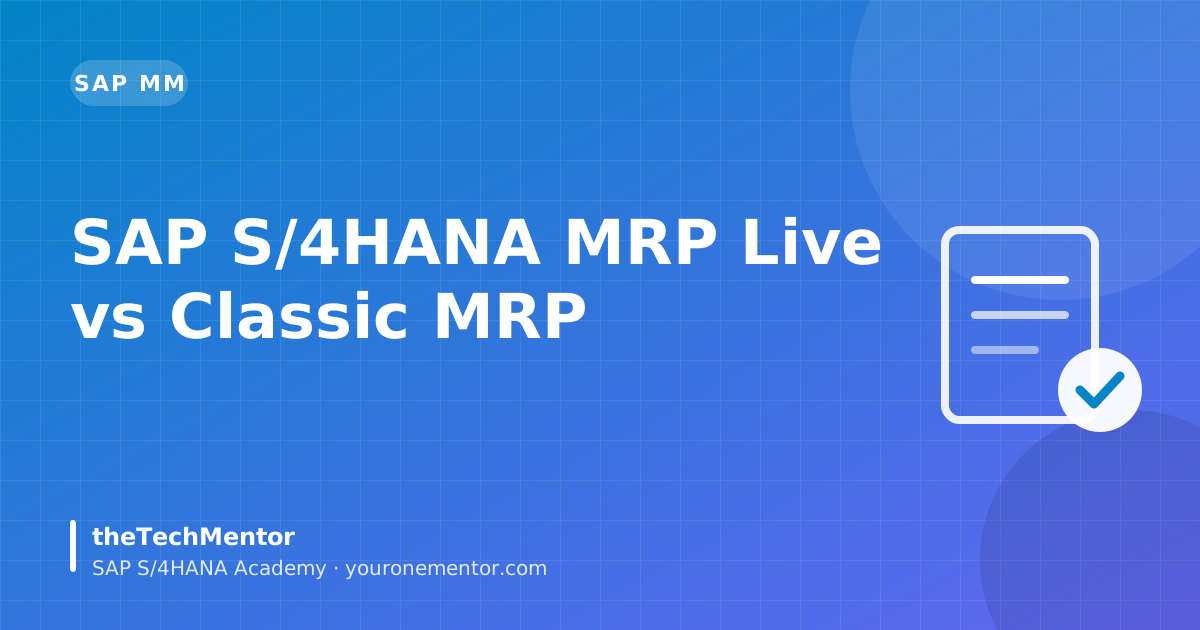
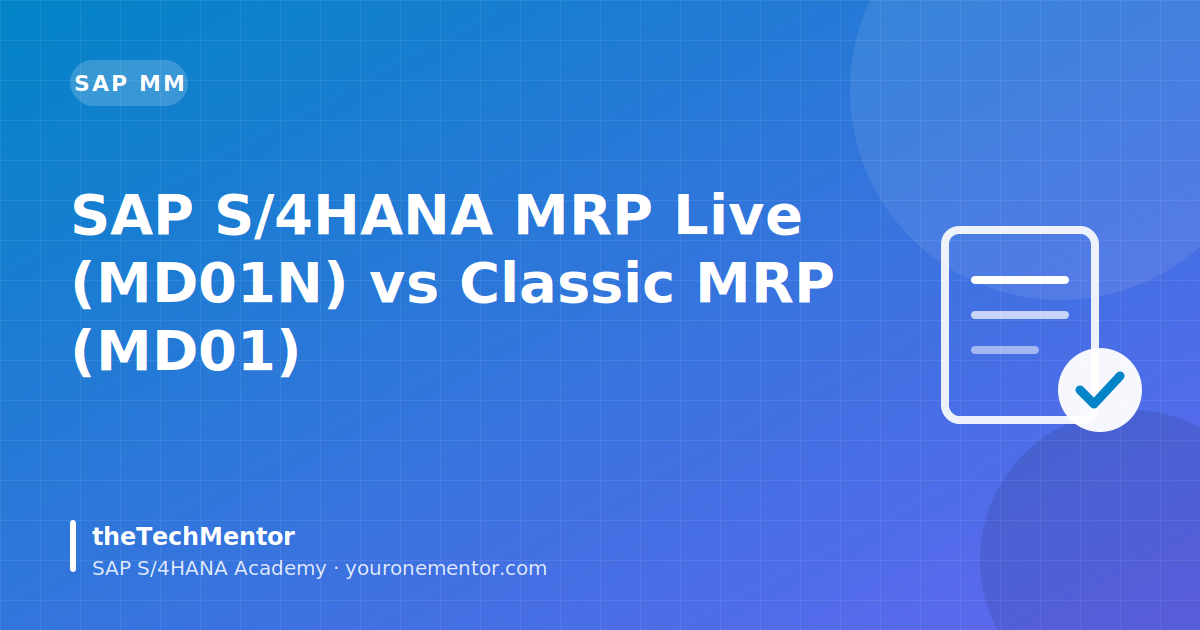
feat(blog): automated article

diff --git a/legacy/blog/sap-s4hana-mrp-live-classic-mrp-comparison.html b/legacy/blog/sap-s4hana-mrp-live-classic-mrp-comparison.html
@@ -3,95 +3,98 @@
 <head>
   <meta charset="UTF-8" />
   <meta name="viewport" content="width=device-width, initial-scale=1.0" />
-  <title>SAP S/4HANA MRP Live vs Classic MRP</title>
-  <meta name="description" content="Detailed architectural comparison between MRP Live (MD01N) and Classic MRP (MD01) in S/4HANA Sourcing & Procurement." />
+  <title>SAP S/4HANA MRP Live (MD01N) vs Classic MRP (MD01)</title>
+  <meta name="description" content="SAP S/4HANA MRP Live vs classic MRP explained: MD01N vs MD01, how each runs, what changes for you, and how to move plants over. Read the full guide." />
   <link rel="canonical" href="https://youronementor.com/blog/sap-s4hana-mrp-live-classic-mrp-comparison.html" />
-  <meta property="og:title" content="SAP S/4HANA MRP Live vs Classic MRP: Performance & Functional Matrix" />
-  <meta property="og:description" content="Detailed architectural comparison between MRP Live (MD01N) and Classic MRP (MD01) in S/4HANA Sourcing & Procurement." />
+  <meta name="robots" content="index,follow,max-image-preview:large" />
+  <meta property="og:type" content="article" />
+  <meta property="og:url" content="https://youronementor.com/blog/sap-s4hana-mrp-live-classic-mrp-comparison.html" />
+  <meta property="og:title" content="SAP S/4HANA MRP Live (MD01N) vs Classic MRP (MD01): Architecture, Differences and Migration" />
+  <meta property="og:description" content="SAP S/4HANA MRP Live vs classic MRP explained: MD01N vs MD01, how each runs, what changes for you, and how to move plants over. Read the full guide." />
   <meta property="og:image" content="https://youronementor.com/blog/covers/sap-s4hana-mrp-live-classic-mrp-comparison.png" />
+  <meta property="og:site_name" content="theTechMentor" />
+  <meta name="twitter:card" content="summary_large_image" />
+  <meta property="article:published_time" content="2026-11-19" />
+  <meta property="article:modified_time" content="2026-11-19" />
   <link rel="preconnect" href="https://fonts.googleapis.com" />
   <link rel="preconnect" href="https://fonts.gstatic.com" crossorigin />
-  <link rel="stylesheet" href="https://fonts.googleapis.com/css2?family=Inter:wght@400;500;600;700;800&family=Space+Grotesk:wght@500;600;700&display=swap" />
-  <link rel="stylesheet" href="../styles.css" />
-  <link rel="stylesheet" href="blog.css" />
-  <script src="https://checkout.razorpay.com/v1/checkout.js"></script>
-  <script type="application/ld+json">[{"@context": "https://schema.org", "@type": "Article", "headline": "SAP S/4HANA MRP Live vs Classic MRP: Performance & Functional Matrix", "description": "Detailed architectural comparison between MRP Live (MD01N) and Classic MRP (MD01) in S/4HANA Sourcing & Procurement.", "image": "https://youronementor.com/images/og-cover.png", "author": {"@type": "Person", "name": "Anshuman Behuria", "url": "https://www.linkedin.com/in/anshuman-behuria-946860130"}, "publisher": {"@type": "Organization", "name": "theTechMentor", "url": "https://youronementor.com"}, "mainEntityOfPage": "https://youronementor.com/blog/sap-s4hana-mrp-live-classic-mrp-comparison.html"}, {"@context": "https://schema.org", "@type": "BreadcrumbList", "itemListElement": [{"@type": "ListItem", "position": 1, "name": "Home", "item": "https://youronementor.com/"}, {"@type": "ListItem", "position": 2, "name": "Blog", "item": "https://youronementor.com/blog/"}, {"@type": "ListItem", "position": 3, "name": "SAP S/4HANA MRP Live vs Classic MRP: Performance & Functional Matrix", "item": "https://youronementor.com/blog/sap-s4hana-mrp-live-classic-mrp-comparison.html"}]}]</script>
-  <meta name="robots" content="noindex,follow" />
-  <link rel="stylesheet" href="ai-article.css" />
-  <link rel="stylesheet" href="../theme-2030.css?v=1" />
+  <link rel="stylesheet" href="https://fonts.googleapis.com/css2?family=Inter:wght@400;500;600;700&family=Plus+Jakarta+Sans:wght@600;700;800&display=swap" />
+  <link rel="icon" href="../images/logo-mark.svg" type="image/svg+xml" />
+  <link rel="stylesheet" href="../site.css?v=7" />
+  <link rel="stylesheet" href="ai-article.css?v=3" />
+  <script type="application/ld+json">[{"@context": "https://schema.org", "@type": "Article", "headline": "SAP S/4HANA MRP Live (MD01N) vs Classic MRP (MD01): Architecture, Differences and Migration", "description": "SAP S/4HANA MRP Live vs classic MRP explained: MD01N vs MD01, how each runs, what changes for you, and how to move plants over. Read the full guide.", "image": "https://youronementor.com/blog/covers/sap-s4hana-mrp-live-classic-mrp-comparison.png", "datePublished": "2026-11-19", "dateModified": "2026-11-19", "author": {"@type": "Person", "name": "Anshuman Behuria", "url": "https://www.linkedin.com/in/anshuman-behuria-946860130"}, "publisher": {"@type": "Organization", "name": "theTechMentor", "url": "https://youronementor.com"}, "mainEntityOfPage": "https://youronementor.com/blog/sap-s4hana-mrp-live-classic-mrp-comparison.html", "wordCount": 2020}, {"@context": "https://schema.org", "@type": "BreadcrumbList", "itemListElement": [{"@type": "ListItem", "position": 1, "name": "Home", "item": "https://youronementor.com/"}, {"@type": "ListItem", "position": 2, "name": "Blog", "item": "https://youronementor.com/blog/"}, {"@type": "ListItem", "position": 3, "name": "SAP S/4HANA MRP Live (MD01N) vs Classic MRP (MD01): Architecture, Differences and Migration", "item": "https://youronementor.com/blog/sap-s4hana-mrp-live-classic-mrp-comparison.html"}]}, {"@context": "https://schema.org", "@type": "FAQPage", "mainEntity": [{"@type": "Question", "name": "What is MRP Live in SAP S/4HANA?", "acceptedAnswer": {"@type": "Answer", "text": "MRP Live is the S/4HANA version of total MRP, run with transaction MD01N. It performs the planning calculation in the SAP HANA database rather than in the ABAP application server, which reduces data transfer and improves run time on large data volumes."}}, {"@type": "Question", "name": "Is MRP Live always faster than classic MRP?", "acceptedAnswer": {"@type": "Answer", "text": "It is usually faster for large plants with many materials and open requirements, but the gain varies. Small plants, heavy custom code or limited HANA resources can reduce the benefit, so measure on a copy of real data."}}, {"@type": "Question", "name": "Do planning results change when I move from MD01 to MD01N?", "acceptedAnswer": {"@type": "Answer", "text": "They should not, because the business logic is the same. Differences usually come from custom enhancements, data issues or release-specific restrictions, which is why you compare a classic baseline with an MRP Live run before cutover."}}, {"@type": "Question", "name": "Can I run MRP Live on ECC?", "acceptedAnswer": {"@type": "Answer", "text": "No. MRP Live is an S/4HANA capability. ECC, even when running on a HANA database, uses classic MRP via MD01."}}, {"@type": "Question", "name": "Which transactions do planners use to review MRP Live results?", "acceptedAnswer": {"@type": "Answer", "text": "The usual ones: MD04 for the stock/requirements list of one material, MD05 for the MRP list, MD06 for the collective MRP list and MD07 for the collective stock/requirements list. Fiori apps for material coverage are also available."}}, {"@type": "Question", "name": "Do I need to change master data to use MRP Live?", "acceptedAnswer": {"@type": "Answer", "text": "There is no new master-data model, but you should clean existing data such as MRP controller, MRP type, lot size and planned delivery time. Doing so before the move makes the result comparison much easier."}}, {"@type": "Question", "name": "How should I cut over production plants to MD01N?", "acceptedAnswer": {"@type": "Answer", "text": "Go one plant at a time. Baseline with classic regenerative planning in test, run MD01N on the same data, compare results and timing, then update the background job and monitor several cycles before moving the next plant."}}]}]</script>
   <script src="../site-config.js"></script>
   <script src="../tracking.js"></script>
-  <link rel="icon" href="../images/logo-mark.svg" type="image/svg+xml" />
 </head>
-<body>
+<body class="ai-page" style="--accent:#0284c7;--accent2:#6366f1;--accent-soft:#e0f2fe;">
   <div class="reading-progress" id="reading-progress-bar"></div>
-
   <header class="header">
-    <nav class="nav container">
-      <a href="../index.html" class="logo">
-        <img class="logo-img" src="../images/logo-mark.svg" width="32" height="32" alt="" />
-        <span class="logo-text">the<b>Tech</b>Mentor</span>
-      </a>
+    <nav class="nav wrap" aria-label="Main">
+      <a href="../index.html" class="brand" aria-label="theTechMentor home"><img src="../images/logo-mark.svg" alt="" width="36" height="36" /><span>the<b>Tech</b>Mentor</span></a>
+      <button class="nav-toggle" aria-label="Open menu" aria-expanded="false"><span></span><span></span><span></span></button>
       <ul class="nav-links">
         <li><a href="../index.html#courses">Courses</a></li>
+        <li><a href="../digital-products">Digital Products</a></li>
         <li><a href="../index.html#paths">Career paths</a></li>
-        <li><a href="index.html" style="color:var(--blog-accent-light); font-weight:600;">Blog Hub</a></li>
-        <li><a href="../index.html#advisor">Free counselling</a></li>
-        <li><a href="../index.html#courses" class="btn btn-sm">Explore courses</a></li>
+        <li><a href="index.html">Blog</a></li>
+        <li><a href="../index.html#advisor" class="btn btn-ghost btn-sm">Free counselling</a></li>
+        <li><a href="../index.html#courses" class="btn btn-primary btn-sm">Explore courses</a></li>
       </ul>
     </nav>
   </header>
 
-  <main class="blog-article-wrap">
-    <div class="blog-breadcrumb">
-      <a href="../index.html">Home</a> &gt; <a href="index.html">Blog</a> &gt; <span>Guide</span>
-    </div>
+  <main class="blog-article-wrap ai-wrap">
+    <nav class="blog-breadcrumb" aria-label="Breadcrumb">
+      <a href="../index.html">Home</a> &gt; <a href="index.html">Blog</a> &gt; <span>Tutorial</span>
+    </nav>
 
-    <header class="blog-header">
-      <span class="sp-badge sp-badge--teal" style="margin-bottom:1rem; display:inline-block;">S/4HANA 2026</span>
-      <h1 class="blog-title">SAP S/4HANA MRP Live vs Classic MRP: Performance & Functional Matrix</h1>
-      
+    <header class="ai-hero">
+      <span class="ai-pill">SAP S/4HANA MRP TUTORIAL</span>
+      <h1 class="blog-title">SAP S/4HANA MRP Live (MD01N) vs Classic MRP (MD01): Architecture, Differences and Migration</h1>
+      <p class="ai-dek">How SAP S/4HANA MRP Live (MD01N) differs from classic MRP (MD01): where the logic runs, what you configure, what to test, and how to cut plants over safely.</p>
       <div class="blog-meta">
         <div class="author-chip">
-          <img class="author-photo" src="../images/anshuman-behuria-96.jpg" alt="Anshuman Behuria" width="40" height="40" style="width:40px;height:40px;border-radius:50%;object-fit:cover" />
-          <div class="author-info">
-            <strong>Anshuman Behuria</strong>
-            <span>Lead SAP S/4HANA Trainer</span>
-          </div>
+          <img class="author-photo" src="../images/anshuman-behuria-96.jpg" alt="Anshuman Behuria" width="40" height="40" />
+          <div class="author-info"><strong>Anshuman Behuria</strong><span>Lead SAP Mentor · theTechMentor</span></div>
         </div>
-        <span>•</span>
-        <span>Sep 06, 2026</span>
-        <span>•</span>
-        <span>⏱ 11 min read</span>
+        <span>Updated <time datetime="2026-11-19">Nov 19, 2026</time></span>
       </div>
+      <img class="ai-cover" src="covers/sap-s4hana-mrp-live-classic-mrp-comparison.svg" width="1200" height="630" alt="SAP S/4HANA MRP Live (MD01N) vs Classic MRP (MD01): Architecture, Differences and Migration" />
     </header>
 
-    <article class="article-content">
+    <article class="article-content ai-article">
+      <div class="glance"><div><span>Module</span><strong>SAP MM</strong></div><div><span>Read time</span><strong>9 min</strong></div><div><span>Level</span><strong>Consultant</strong></div><div class="glance-codes"><span>T-codes covered</span><p><code>MD01N</code><code>MD01</code><code>MD04</code><code>MD05</code><code>MD06</code><code>MD07</code><code>MD02</code><code>MD03</code></p></div></div>
 
-      <!-- TARGET METADATA GRID -->
-      <div style="background: #080d14; border: 1px solid #1e293b; border-radius: 10px; padding: 1.5rem; margin-bottom: 2rem; display: grid; grid-template-columns: 1fr 1fr; gap: 1.25rem;">
-        <div style="border-left: 3px solid #0284c7; padding-left: 0.85rem;">
-          <span style="color: #94a3b8; font-size: 0.8rem; font-weight: 700; text-transform: uppercase; display: block;">Target Role:</span>
-          <strong style="color: #fff; font-size: 0.95rem;">SAP MM/PP Lead Consultant & Logistics Architect</strong>
-        </div>
-      </div>
+      <div class="ai-intro"><p>Most S/4HANA conversion projects hit the same MRP question in the first workshop: "Our nightly MRP run takes six hours in ECC. Will it be faster, and will our planners see the same results?" The honest answer needs you to know what actually differs between <strong>SAP S/4HANA MRP Live</strong> and classic MRP, and what does not.</p><p>This guide explains how MRP Live (<code>MD01N</code>) executes compared with classic MRP (<code>MD01</code>), which inputs and outputs stay the same, where the behaviour or the screens change, and how to test and cut over plant by plant. It is written for MM/PP consultants who must explain this to a client, and for freshers who will be asked about it in interviews.</p></div>
 
-      <p style="font-size: 1.05rem; line-height: 1.75; color: #cbd5e1; margin-bottom: 2rem;">
-        Mastering S/4HANA supply chain architecture requires deep functional knowledge and practical configuration experience. This technical guide breaks down <strong>SAP S/4HANA MRP Live vs Classic MRP: Performance & Functional Matrix</strong> with actionable step-by-step blueprints.
-      </p>
+      <div class="ai-box ai-takeaways"><div class="box-label">⚡ Key takeaways</div><ul><li>MRP Live (MD01N) keeps the same planning logic as classic MRP (MD01) but runs the calculation inside the SAP HANA database instead of the ABAP application server.</li><li>The speed benefit depends on data volume, BOM depth, custom code and hardware, so measure it on production-like data rather than promising a factor.</li><li>Custom enhancements on MRP and release-specific functional coverage are the main risks; check the simplification list for your exact release.</li><li>Migrate plant by plant: baseline with classic regenerative planning, re-run in MD01N, compare results using a golden set of materials, then cut over the job.</li><li>Analysis stays familiar: MD04, MD05, MD06 and MD07 still show MRP results for planners.</li></ul></div>
 
-      <h2 style="color: #fff; font-size: 1.5rem; font-weight: 700; margin: 2rem 0 1rem 0; padding-bottom: 0.5rem; border-bottom: 1px solid #1e293b;">1. How MRP Live Executes Directly on HANA Database Layer</h2><p style="color: #cbd5e1; font-size: 1.05rem; line-height: 1.7;">Deep dive into key configuration parameters, best practices, and real-world project insights for HANA In-Memory Engine.</p><h2 style="color: #fff; font-size: 1.5rem; font-weight: 700; margin: 2rem 0 1rem 0; padding-bottom: 0.5rem; border-bottom: 1px solid #1e293b;">2. Supported vs Unsupported Materials in MRP Live (BADI PPH_MRP_DISER)</h2><p style="color: #cbd5e1; font-size: 1.05rem; line-height: 1.7;">Deep dive into key configuration parameters, best practices, and real-world project insights for Functional Scope Changes.</p><h2 style="color: #fff; font-size: 1.5rem; font-weight: 700; margin: 2rem 0 1rem 0; padding-bottom: 0.5rem; border-bottom: 1px solid #1e293b;">3. Analyzing MRP Live Compatibility via Report PPH_CHECK_MRP_ON_HANA</h2><p style="color: #cbd5e1; font-size: 1.05rem; line-height: 1.7;">Deep dive into key configuration parameters, best practices, and real-world project insights for PPH_MRP_DISER Check.</p><h2 style="color: #fff; font-size: 1.5rem; font-weight: 700; margin: 2rem 0 1rem 0; padding-bottom: 0.5rem; border-bottom: 1px solid #1e293b;">4. Best Practices for Transitioning Plant Operations to MD01N</h2><p style="color: #cbd5e1; font-size: 1.05rem; line-height: 1.7;">Deep dive into key configuration parameters, best practices, and real-world project insights for Migration Strategy.</p>
+      <div class="flow"><div class="flow-label">Process at a glance</div><ol class="flow-steps"><li><span class="flow-n">1</span><strong>Assess and inventory</strong><span>Review simplification items and list custom code on MRP objects.</span></li><li><span class="flow-n">2</span><strong>Baseline with MD01</strong><span>Run classic regenerative planning in test and save the results.</span></li><li><span class="flow-n">3</span><strong>Re-run with MD01N</strong><span>Run MRP Live on the same data and parameters.</span></li><li><span class="flow-n">4</span><strong>Compare and fix</strong><span>Check quantities, dates and exceptions, then fix differences.</span></li><li><span class="flow-n">5</span><strong>Cut over plant by plant</strong><span>Switch the background job variant and monitor several cycles.</span></li></ol></div>
 
-      <!-- TIP CALLOUT -->
-      <div style="background: #0c1929; border-left: 4px solid #0284c7; padding: 1.25rem; border-radius: 6px; margin: 1.75rem 0;">
-        <strong style="color: #38bdf8; font-size: 1.05rem; display: block; margin-bottom: 0.3rem;">💡 CONSULTANT BEST PRACTICE</strong>
-        <p style="color: #cbd5e1; font-size: 0.95rem; margin: 0;">
-          Always validate your configuration in a sandbox environment before transporting customizing requests to Quality/Production.
-        </p>
-      </div>
+      <nav class="ai-box ai-toc" aria-label="Contents"><div class="box-label">📑 In this guide</div><ol><li><a href="#sec-1"><span>01</span>What MRP Live actually changes (and what it does not)</a></li><li><a href="#sec-2"><span>02</span>How MRP Live executes on the HANA database</a></li><li><a href="#sec-3"><span>03</span>MD01N vs MD01: screen and parameter comparison</a></li><li><a href="#sec-4"><span>04</span>Functional restrictions and custom code to review</a></li><li><a href="#sec-5"><span>05</span>Migration approach: moving plants to MRP Live</a></li><li><a href="#sec-6"><span>06</span>Scheduling, monitoring and what planners see afterwards</a></li><li><a href="#sec-7"><span>07</span>Troubleshooting and common mistakes</a></li><li><a href="#sec-8"><span>08</span>Interview questions on this topic</a></li><li><a href="#faqs"><span>?</span>Frequently asked questions</a></li></ol></nav>
 
-      <!-- LEAD OPT-IN -->
+      <h2 id="sec-1"><span class="h2-n">01</span>What MRP Live actually changes (and what it does not)</h2>
+<p>MRP's job is unchanged: look at stock, receipts and requirements, calculate shortages, and create planned orders, purchase requisitions or schedule lines. The planning logic you know (MRP types, lot-sizing, safety stock, planned delivery time, BOM explosion, procurement proposals) is the same business logic.</p><p>What changes is <strong>where the calculation runs</strong>. In classic MRP, the ABAP application server reads planning data from the database material by material, calculates in application-server memory, and writes the results back. In MRP Live, the calculation is pushed down into the SAP HANA database using ABAP-managed database procedures, so far less data travels between the database and the application server. This is the same code-pushdown idea described in <a href="abap-on-hana-code-pushdown-examples.html">ABAP on HANA code pushdown</a>.</p><table><thead><tr><th>Aspect</th><th>Classic MRP</th><th>MRP Live</th></tr></thead><tbody><tr><td>Total planning transaction</td><td><code>MD01</code></td><td><code>MD01N</code></td></tr><tr><td>Where the calculation runs</td><td>ABAP application server</td><td>SAP HANA database (database procedures)</td></tr><tr><td>Database platform</td><td>Any supported database (ECC)</td><td>HANA only</td></tr><tr><td>Planning file</td><td>Planning file entries in <code>DBVM</code></td><td>Same concept; net change logic is retained</td></tr><tr><td>Results</td><td>Planned orders (<code>PLAF</code>), purchase requisitions (<code>EBAN</code>), schedule lines, MRP lists</td><td>Same documents</td></tr><tr><td>Analysis</td><td><code>MD04</code>, <code>MD05</code>, <code>MD06</code>, <code>MD07</code></td><td>Same transactions</td></tr></tbody></table><aside class="note"><strong>ECC vs S/4HANA:</strong> MRP Live is only available on S/4HANA (it was introduced with the first S/4HANA releases and later made the default recommendation). In ECC you only have classic MRP, even if your ECC database is HANA (Suite on HANA).</aside><p>Because master data, document types and downstream steps are unchanged, a planner still sees the same stock/requirements list. The main differences you will notice are runtime, parallelisation behaviour and a few functional or enhancement-related restrictions, covered below.</p>
+<h2 id="sec-2"><span class="h2-n">02</span>How MRP Live executes on the HANA database</h2>
+<p>Think of classic MRP as a long conveyor belt: for each material, fetch rows, bring them to the application server, calculate, write back. With millions of requirement and receipt rows, the cost is mostly data transfer and row-by-row processing.</p><p>MRP Live reverses this. The planning run selects the materials in scope, and the heavy parts (reading stock and requirements, netting, lot-sizing, low-level BOM handling) execute inside HANA, close to the data, using set-based processing and parallelism that the database manages. Only the final results are returned to be stored as planned orders or requisitions.</p><h3>Practical consequences</h3><ul><li><strong>Run time:</strong> the gain is largest for big plants with many materials, deep multi-level BOMs and many open requirements. Small plants with few materials may see little change.</li><li><strong>Memory:</strong> work moves from the application server to HANA, so watch HANA memory and CPU during the run, not only application work processes. See <a href="sap-s4hana-system-architecture-basis-beginners.html">S/4HANA system architecture for BASIS beginners</a> for the layers involved.</li><li><strong>Planning frequency:</strong> faster runs let some businesses plan more often than once a night, which is the real business value, not just a shorter job log.</li></ul><aside class="tip"><strong>Tip:</strong> Never promise the client a specific speed-up factor. Measure it on a copy of their production data. Gains depend on data volume, BOM depth, custom code and hardware.</aside>
+<h2 id="sec-3"><span class="h2-n">03</span>MD01N vs MD01: screen and parameter comparison</h2>
+<p>Both transactions let you plan a plant (total planning), but the selection screen and options differ. Open both in your sandbox side by side and compare.</p><table><thead><tr><th>Item</th><th><code>MD01</code> (classic)</th><th><code>MD01N</code> (MRP Live)</th></tr></thead><tbody><tr><td>Plant / planning scope</td><td>Plant, optional planning scope</td><td>Plant or MRP area, optional planning scope</td></tr><tr><td>Processing key</td><td><code>NETCH</code> net change, <code>NETPL</code> net change in planning horizon, <code>NEUPL</code> regenerative planning</td><td>Same three planning types</td></tr><tr><td>Create purchase requisitions</td><td>Option 1/2/3 (opening period logic)</td><td>Same options</td></tr><tr><td>MRP list creation</td><td>Option to create MRP lists</td><td>Option available</td></tr><tr><td>Planning mode / scheduling</td><td>Adapt, re-explode, delete and recreate</td><td>Same planning modes</td></tr><tr><td>Parallel processing</td><td>Application-server parallel processing using RFC server groups</td><td>Parallelisation by the database; no application-server RFC group tuning</td></tr><tr><td>Online result display</td><td>More online display options</td><td>Fewer; analyse results in <code>MD04</code> / <code>MD07</code> afterwards</td></tr></tbody></table><p>Single-item planning (<code>MD02</code> multi-level, <code>MD03</code> single-level) and the planning-file maintenance transactions remain part of the toolset, and planners keep using <code>MD04</code>, <code>MD05</code> and <code>MD06</code> for analysis. Always check the exact options in your own release, because SAP has widened MRP Live coverage release by release.</p><aside class="interview"><strong>Interview angle:</strong> "What is the difference between MD01 and MD01N?" A good answer: same business logic and results, but MD01N executes the calculation in HANA instead of the application server, so it is faster on large volumes and uses database parallelism rather than RFC-group parallel processing.</aside>
+<h2 id="sec-4"><span class="h2-n">04</span>Functional restrictions and custom code to review</h2>
+<p>The main risk in an MRP Live move is not the standard planning logic. It is anything that depended on code running in the application server for each material.</p><h3>1. Custom enhancements</h3><p>Classic MRP lets custom code (BAdIs, user exits, modifications) intervene during the run. Logic that is executed in the database cannot call arbitrary ABAP per material, so enhancements that change planning results must be reviewed. Inventory every enhancement on MRP objects, and check SAP's documentation for your release to see which hooks are still supported and which are replaced by alternative extension points.</p><h3>2. Release-specific functional coverage</h3><p>In early S/4HANA releases MRP Live did not cover every classic feature. Coverage has improved since, but you must not assume it. Use these sources for your exact release:</p><ul><li>The <strong>Simplification Item Catalog</strong> and the Simplification List for your target release.</li><li>The release's <strong>What's New</strong> and application help for MRP.</li><li>The <strong>SAP Readiness Check</strong> for S/4HANA conversions, which flags relevant simplification items from your own system.</li></ul><p>Also read <a href="sap-s4hana-2025-release-mm-ewm-changes.html">what changed in the S/4HANA 2025 release for MM and EWM consultants</a> for recent changes.</p><h3>3. Master-data hygiene</h3><p>Dirty data hurts both modes, but the cleanup is easier before you switch. Check the MRP views of the material master (see <a href="material-master-views-s4hana-field-by-field-guide.html">material master views, field by field</a>): MRP type (<code>DISMM</code>), MRP controller (<code>DISPO</code>), lot size (<code>DISLS</code>), planned delivery time (<code>PLIFZ</code>), procurement type and special procurement key.</p><aside class="warning"><strong>Warning:</strong> Do not move a plant to <code>MD01N</code> in production because a demo ran well. Compare classic versus MRP Live results on the same data first. A different planned order for the same material is a finding to investigate, not noise.</aside>
+<h2 id="sec-5"><span class="h2-n">05</span>Migration approach: moving plants to MRP Live</h2>
+<p>A plant-by-plant approach lowers risk because MRP is planned per plant. Use the steps below as a project template.</p><ol><li><strong>Assess:</strong> run the readiness/simplification check for your release and list MRP-related items. Inventory custom code on MRP objects.</li><li><strong>Clean master data:</strong> fix materials with missing MRP controller, wrong lot size or MRP type, and obsolete planning file entries.</li><li><strong>Copy and baseline:</strong> in a test system with production-like data, run classic <code>MD01</code> with <code>NEUPL</code> (regenerative) for the plant and export results (planned orders, requisitions) as a baseline.</li><li><strong>Reset and re-run:</strong> restore the same data and run <code>MD01N</code> with the same parameters.</li><li><strong>Compare:</strong> check quantities, dates, order types and exception messages per material. Use <code>MD04</code> for samples and a custom report or extract for the full list.</li><li><strong>Time it:</strong> record run time and HANA resource usage, including the background job window.</li><li><strong>Cut over:</strong> change the background job variant (SM36/SM37) or the scheduling app from <code>MD01</code> to <code>MD01N</code> for the first plant, and monitor for a few cycles before the next plant.</li></ol><p>A worked example: Plant 1000 has 45,000 MRP-relevant materials. After the regenerative baseline run, classic MRP creates 3,210 planned orders and 1,480 purchase requisitions. The MRP Live run produces the same totals, but 14 materials differ by a few days in the planned start date. Investigation shows they use a custom scheduling enhancement. That is exactly the kind of finding the comparison is designed to surface, and you fix it before go-live.</p><aside class="tip"><strong>Tip:</strong> Keep a small "golden set" of 30 to 50 materials covering make-to-stock, purchased, phantom, subcontracting and long-lead items. The business can sign off on the golden set faster than on 45,000 results. Subcontracting planning is covered in <a href="sap-mm-subcontracting-process-s4hana-special-stock-o.html">the subcontracting process guide</a>.</aside>
+<h2 id="sec-6"><span class="h2-n">06</span>Scheduling, monitoring and what planners see afterwards</h2>
+<p>Operational use is where the change gets noticed day to day.</p><ul><li><strong>Background scheduling:</strong> total planning is normally a nightly background job (<code>SM36</code>). Check job logs in <code>SM37</code> and the MRP log after each run.</li><li><strong>Fiori apps:</strong> S/4HANA offers MRP apps such as Monitor Material Coverage and an app for scheduling MRP runs. App availability and names vary by release, so confirm them in the Fiori apps reference library for your version.</li><li><strong>Analysis transactions:</strong> <code>MD04</code> (stock/requirements list), <code>MD05</code> (MRP list), <code>MD06</code> (MRP list collective display) and <code>MD07</code> (stock/requirements list collective display) are unchanged for planners.</li><li><strong>Downstream:</strong> planned orders convert to production orders (<code>CO40</code>/<code>CO41</code>) and requisitions to POs, manually or by automation. See <a href="sap-mm-automatic-po-creation-me59n-pr-automation.html">automatic PO creation with ME59N</a> and the <a href="configure-purchase-order-cycle-s4hana.html">purchase order cycle guide</a>.</li></ul><aside class="note"><strong>Background:</strong> Net change planning relies on planning file entries that are created when stock or requirements change. Switching between <code>MD01</code> and <code>MD01N</code> does not require a new data model, but the first run after a cutover is often done as regenerative planning (<code>NEUPL</code>) so everyone starts from a clean, known state.</aside><p>Joule and other AI assistants are beginning to read MRP exception messages for planners. See the <a href="sap-joule-ai-s4hana-logistics-procurement-blueprint.html">Joule logistics and procurement blueprint</a> if the client asks about it, but the underlying MRP results still come from the same run.</p>
+<h2 id="sec-7"><span class="h2-n">07</span>Troubleshooting and common mistakes</h2>
+<table><thead><tr><th>Symptom</th><th>Likely cause</th><th>Fix</th></tr></thead><tbody><tr><td>Materials not planned at all</td><td>MRP type <code>ND</code>, missing MRP controller, or material not in the planning scope</td><td>Check <code>MM03</code> MRP 1 view and the planning scope; run <code>MD03</code> for one material to see the result</td></tr><tr><td>Result differs from classic MRP</td><td>Custom enhancement or scheduling logic not applied in the database run</td><td>Review enhancements; compare using the golden set</td></tr><tr><td>Run is slow despite MRP Live</td><td>Large result volume, locked materials, undersized HANA resources, or heavy custom code</td><td>Check job log, HANA load (DBACOCKPIT or HANA Cockpit), and run during a quiet period</td></tr><tr><td>Material skipped because it is locked</td><td>Another user or job is changing or planning the same material</td><td>Check <code>SM12</code> locks and overlapping jobs; reschedule so jobs do not overlap</td></tr><tr><td>No new proposals after net change run</td><td>No planning file entry because nothing relevant changed</td><td>Confirm the change, or run regenerative planning (<code>NEUPL</code>) for that scope</td></tr><tr><td>Too many purchase requisitions</td><td>Wrong requisition creation option or an unrealistic planned delivery time</td><td>Check parameters and <code>PLIFZ</code>; compare to your classic baseline</td></tr></tbody></table><aside class="warning"><strong>Common mistakes:</strong> (1) judging MRP Live only by run time, not result accuracy; (2) skipping the custom-code inventory; (3) running regenerative planning in production during working hours; (4) changing the job variant without telling planners, so they cannot explain different run times or timestamps.</aside>
+<h2 id="sec-8"><span class="h2-n">08</span>Interview questions on this topic</h2>
+<ol><li><strong>Why is MRP Live faster?</strong> The calculation runs inside HANA close to the data, so there is less data transfer and the database parallelises the work.</li><li><strong>Does MRP Live change the MRP logic?</strong> No. Planning types, lot sizes, MRP types and procurement proposals remain the same business logic. The execution layer changes.</li><li><strong>Can you use MD01 in S/4HANA?</strong> Check your release. The transaction may still exist, but <code>MD01N</code> is the recommended choice for total planning in S/4HANA.</li><li><strong>What would you check before moving a plant to MRP Live?</strong> Custom enhancements, release restrictions in the simplification list, master-data quality, a classic-vs-live result comparison and run-time measurement.</li><li><strong>Where do you analyse MRP results?</strong> <code>MD04</code> for one material, <code>MD07</code> for collective stock/requirements, <code>MD06</code> for MRP lists, plus Fiori apps.</li></ol><aside class="interview"><strong>How to answer:</strong> Start with the business outcome (faster, more frequent planning), then the technical reason (database pushdown), then the project risk (enhancements and validation). Interviewers also see this in <a href="top-30-sap-mm-interview-questions-2026.html">scenario-based MM interviews</a>. Practising the comparison on an S/4HANA sandbox makes your answer much more convincing.</aside><p>For where MRP fits in the wider process chain, read <a href="end-to-end-sap-logistics-mm-sd-ewm-tm-integration.html">end-to-end SAP logistics integration</a>.</p>
+
+
+      
+
       <div class="ai-optin" id="lead-optin">
+        <div class="optin-icon">🎁</div>
         <strong>Free: SAP MM &amp; EWM video course + interview kit</strong>
         <p>Get the 40+ lesson playlist, the most-asked interview questions and our 90-day roadmap on WhatsApp.</p>
         <form class="ttm-optin-form" data-source="blog:sap-s4hana-mrp-live-classic-mrp-comparison">
@@ -103,20 +106,37 @@
         <div class="ttm-optin-done" hidden></div>
       </div>
 
-      <!-- COURSE CTA CARD -->
-      <div class="blog-course-cta">
-        <span class="tier-badge" style="background:#f59e0b; color:#000; font-weight:700; padding:0.2rem 0.6rem; border-radius:4px; font-size:0.75rem; text-transform:uppercase;">Accelerate Your Career</span>
-        <h3>Master SAP MM &amp; EWM S/4HANA Live with Anshuman Behuria</h3>
-        <p>Recorded courses from ₹4,999 or live weekend batches from ₹29,999 — with S/4HANA server access and interview preparation.</p>
+      <h2 id="faqs"><span class="h2-n">?</span>Frequently asked questions</h2>
+      <details class="ai-faq"><summary>What is MRP Live in SAP S/4HANA?</summary><p>MRP Live is the S/4HANA version of total MRP, run with transaction MD01N. It performs the planning calculation in the SAP HANA database rather than in the ABAP application server, which reduces data transfer and improves run time on large data volumes.</p></details><details class="ai-faq"><summary>Is MRP Live always faster than classic MRP?</summary><p>It is usually faster for large plants with many materials and open requirements, but the gain varies. Small plants, heavy custom code or limited HANA resources can reduce the benefit, so measure on a copy of real data.</p></details><details class="ai-faq"><summary>Do planning results change when I move from MD01 to MD01N?</summary><p>They should not, because the business logic is the same. Differences usually come from custom enhancements, data issues or release-specific restrictions, which is why you compare a classic baseline with an MRP Live run before cutover.</p></details><details class="ai-faq"><summary>Can I run MRP Live on ECC?</summary><p>No. MRP Live is an S/4HANA capability. ECC, even when running on a HANA database, uses classic MRP via MD01.</p></details><details class="ai-faq"><summary>Which transactions do planners use to review MRP Live results?</summary><p>The usual ones: MD04 for the stock/requirements list of one material, MD05 for the MRP list, MD06 for the collective MRP list and MD07 for the collective stock/requirements list. Fiori apps for material coverage are also available.</p></details><details class="ai-faq"><summary>Do I need to change master data to use MRP Live?</summary><p>There is no new master-data model, but you should clean existing data such as MRP controller, MRP type, lot size and planned delivery time. Doing so before the move makes the result comparison much easier.</p></details><details class="ai-faq"><summary>How should I cut over production plants to MD01N?</summary><p>Go one plant at a time. Baseline with classic regenerative planning in test, run MD01N on the same data, compare results and timing, then update the background job and monitor several cycles before moving the next plant.</p></details>
+
+      <div class="related"><div class="flow-label">Keep learning</div><div class="rel-grid"><a class="rel-card" href="embedded-ewm-s4hana-setup-walkthrough.html"><img src="covers/embedded-ewm-s4hana-setup-walkthrough.svg" alt="" loading="lazy" /><span>Setting Up Embedded EWM in S/4HANA: A Step-by-Step Architecture Walkthrough</span></a><a class="rel-card" href="sap-s4hana-system-architecture-basis-beginners.html"><img src="covers/sap-s4hana-system-architecture-basis-beginners.svg" alt="" loading="lazy" /><span>SAP S/4HANA System Architecture Explained for BASIS Beginners</span></a><a class="rel-card" href="sap-s4hana-universal-journal-acdoca-guide.html"><img src="covers/sap-s4hana-universal-journal-acdoca-guide.svg" alt="" loading="lazy" /><span>SAP S/4HANA Universal Journal (ACDOCA): Architecture &amp; Configuration Guide</span></a></div></div>
+
+      <div class="blog-course-cta ai-cta">
+        <h3>Learn SAP hands-on with theTechMentor</h3>
+        <p>Live weekday &amp; weekend batches or 24/7 recorded courses, with S/4HANA practice server access and interview preparation.</p>
         <div class="blog-cta-actions">
-          <a href="../index.html#courses" class="btn btn-primary">Recorded courses from ₹4,999 →</a>
-          <a href="../index.html#courses" class="btn btn-outline">View Batches</a>
+          <a href="../index.html#pricing" class="btn btn-primary">See programs &amp; fees</a>
+          <a href="../index.html#enroll" class="btn btn-outline">Book a free 15-min call</a>
         </div>
       </div>
-
     </article>
   </main>
-  <script src="../script.js?v=5" defer></script>
+
+  <footer class="footer">
+    <div class="wrap footer-grid">
+      <div class="footer-brand">
+        <a href="../index.html" class="brand brand-light"><img src="../images/logo-mark.svg" alt="" width="32" height="32" /><span>the<b>Tech</b>Mentor</span></a>
+        <p>Online SAP S/4HANA academy for logistics, procurement and warehouse careers.</p>
+      </div>
+      <div><h4>Courses</h4><ul><li><a href="../index.html#courses">All courses</a></li><li><a href="../index.html#paths">Career paths</a></li><li><a href="../index.html#formats">Live vs self-paced</a></li></ul></div>
+      <div><h4>Resources</h4><ul><li><a href="../digital-products">Digital Products</a></li><li><a href="index.html">Blog</a></li><li><a href="../index.html#faq">FAQ</a></li><li><a href="../index.html#advisor">Free counselling</a></li></ul></div>
+      <div><h4>Contact</h4><ul><li><a href="mailto:info@youronementor.com">info@youronementor.com</a></li><li><a href="https://wa.me/917848942021" target="_blank" rel="noopener noreferrer">WhatsApp +91 78489 42021</a></li></ul></div>
+      <div><h4>Legal</h4><ul><li><a href="../privacy.html">Privacy</a></li><li><a href="../terms.html">Terms</a></li><li><a href="../refund.html">Refunds</a></li></ul></div>
+    </div>
+    <div class="wrap footer-bottom"><p>© 2026 theTechMentor. SAP and S/4HANA are trademarks of SAP SE; theTechMentor is not affiliated with SAP SE.</p></div>
+    <div class="footer-wordmark" aria-hidden="true"><img src="../images/footer-wordmark.webp?v=3" alt="" width="2000" height="306" loading="lazy" /></div>
+  </footer>
   <script src="blog-leads.js"></script>
+  <script>document.querySelector(".nav-toggle")?.addEventListener("click",function(){var l=document.querySelector(".nav-links");var o=l.classList.toggle("open");this.setAttribute("aria-expanded",String(o));});</script>
 </body>
 </html>

diff --git a/legacy/blog/index.html b/legacy/blog/index.html
@@ -415,7 +415,7 @@
           <div class="blog-thumb" style="background:#0b1220 url('covers/sap-s4hana-mrp-live-classic-mrp-comparison.svg') center/cover no-repeat;"></div>
           <div class="blog-body">
             <span class="blog-post-badge blog-post-badge--teal">S/4HANA 2026</span>
-            <h2 class="blog-post-title">SAP S/4HANA MRP Live vs Classic MRP: Performance &amp; Functional Matrix</h2>
+            <h2 class="blog-post-title">SAP S/4HANA MRP Live (MD01N) vs Classic MRP (MD01): Architecture, Differences and Migration</h2>
             <div class="blog-meta-line">By Anshuman Behuria &middot; 11 min read &middot; Aug 28, 2026</div>
             <a href="sap-s4hana-mrp-live-classic-mrp-comparison.html" class="blog-read-link">Read article &amp; join discussion &rarr;</a>
           </div>

diff --git a/legacy/blog/custom-blogs.js b/legacy/blog/custom-blogs.js
@@ -258,7 +258,7 @@ window.TTM_CUSTOM_BLOGS = window.TTM_CUSTOM_BLOGS || [
   },
   {
     id: "post_1787892679924",
-    title: "SAP S/4HANA MRP Live vs Classic MRP: Performance & Functional Matrix",
+    title: "SAP S/4HANA MRP Live (MD01N) vs Classic MRP (MD01): Architecture, Differences and Migration",
     slug: "sap-s4hana-mrp-live-classic-mrp-comparison",
     category: "Guide",
     readTime: "11 min read",

diff --git a/legacy/docs/SCREENSHOTS-TODO.md b/legacy/docs/SCREENSHOTS-TODO.md
@@ -244,3 +244,11 @@ Folder: `images/blog/sap-mm-consultant-roadmap-freshers-india/`
 - [ ] 03: MIGO goods receipt for PO with movement type 101 and the resulting accounting document
 - [ ] 04: MIRO invoice verification with a balance of zero before posting
 - [ ] 05: OBYC transaction key BSX/WRX/GBB account assignment screen
+
+## SAP S/4HANA MRP Live (MD01N) vs Classic MRP (MD01): Architecture, Differences and Migration
+Folder: `images/blog/sap-s4hana-mrp-live-classic-mrp-comparison/`
+- [ ] 01: MD01N selection screen showing plant, processing key NEUPL/NETCH and creation options
+- [ ] 02: MD01 selection screen for side-by-side comparison with MD01N
+- [ ] 03: MD04 stock/requirements list for a sample material after an MRP Live run
+- [ ] 04: SM37 job log of a nightly MRP Live background run showing duration
+- [ ] 05: MM03 MRP 1 view showing MRP type, MRP controller and lot size
